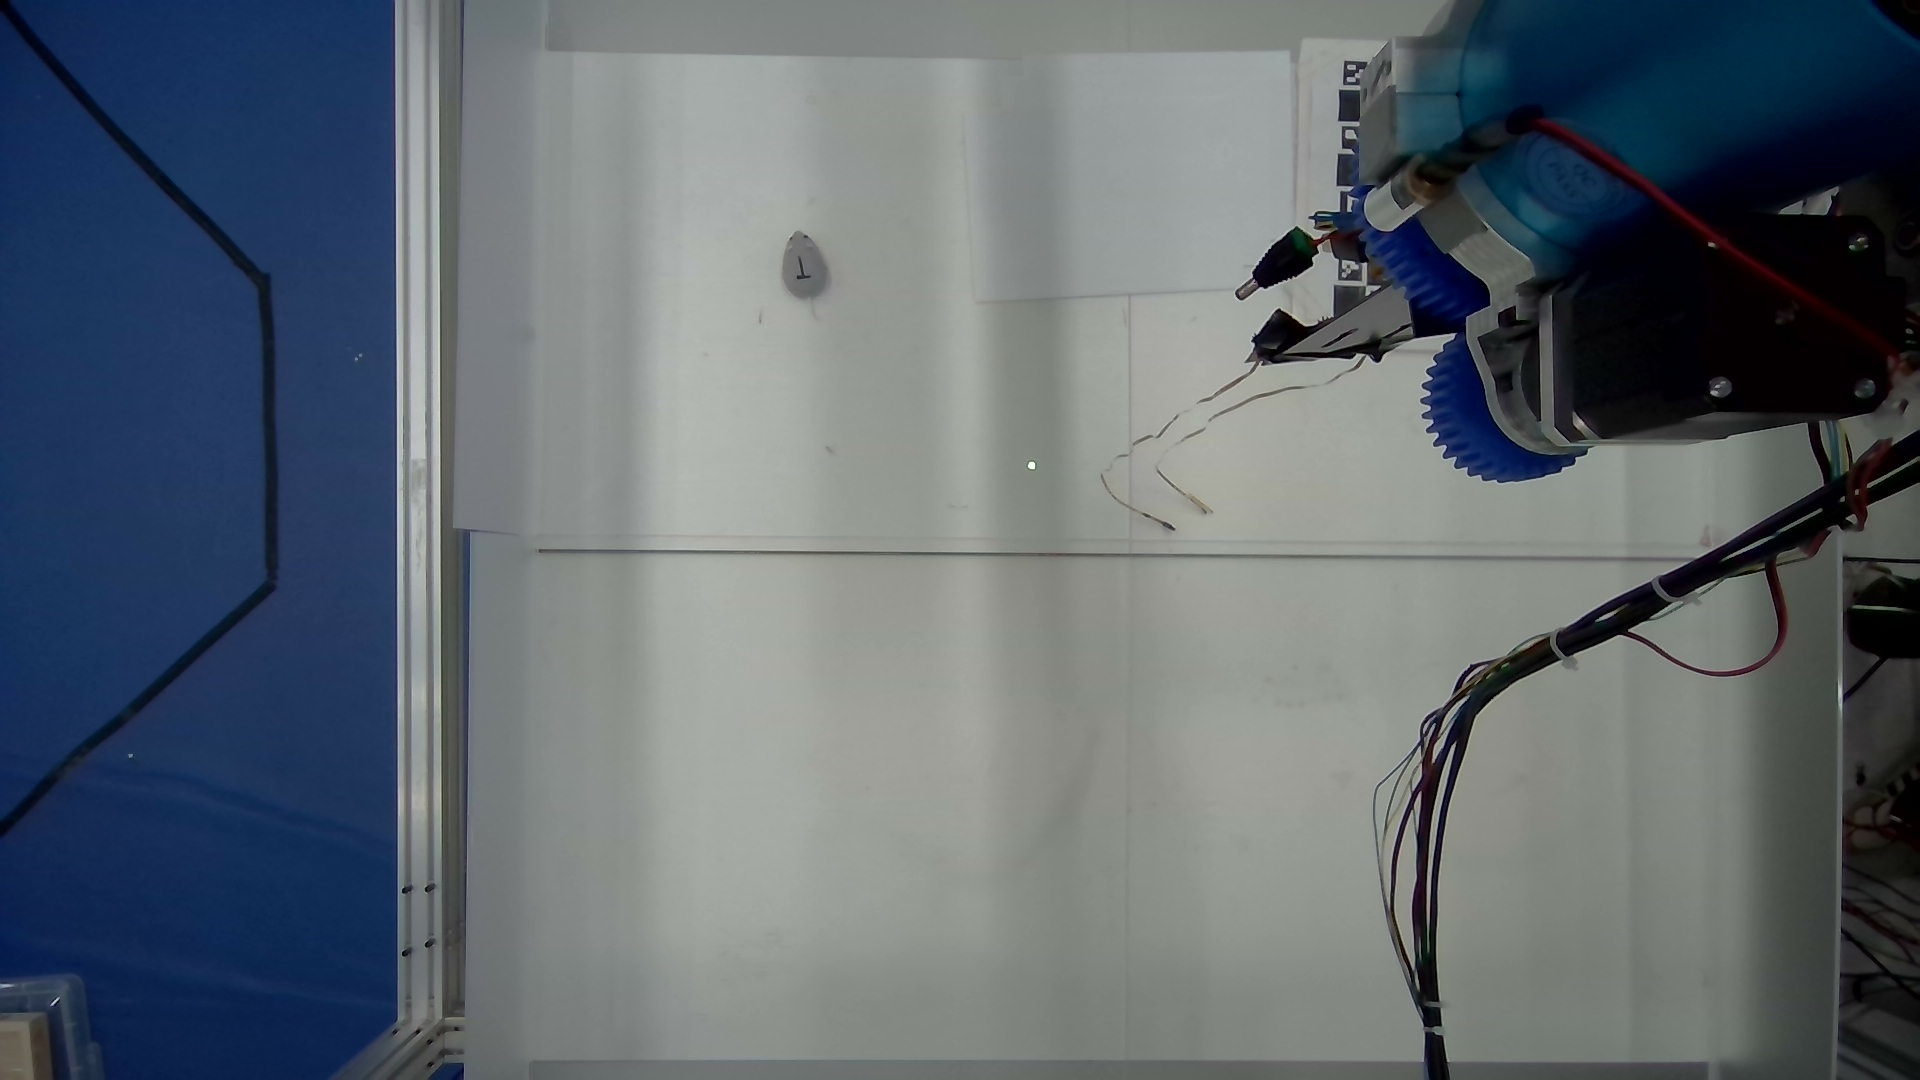
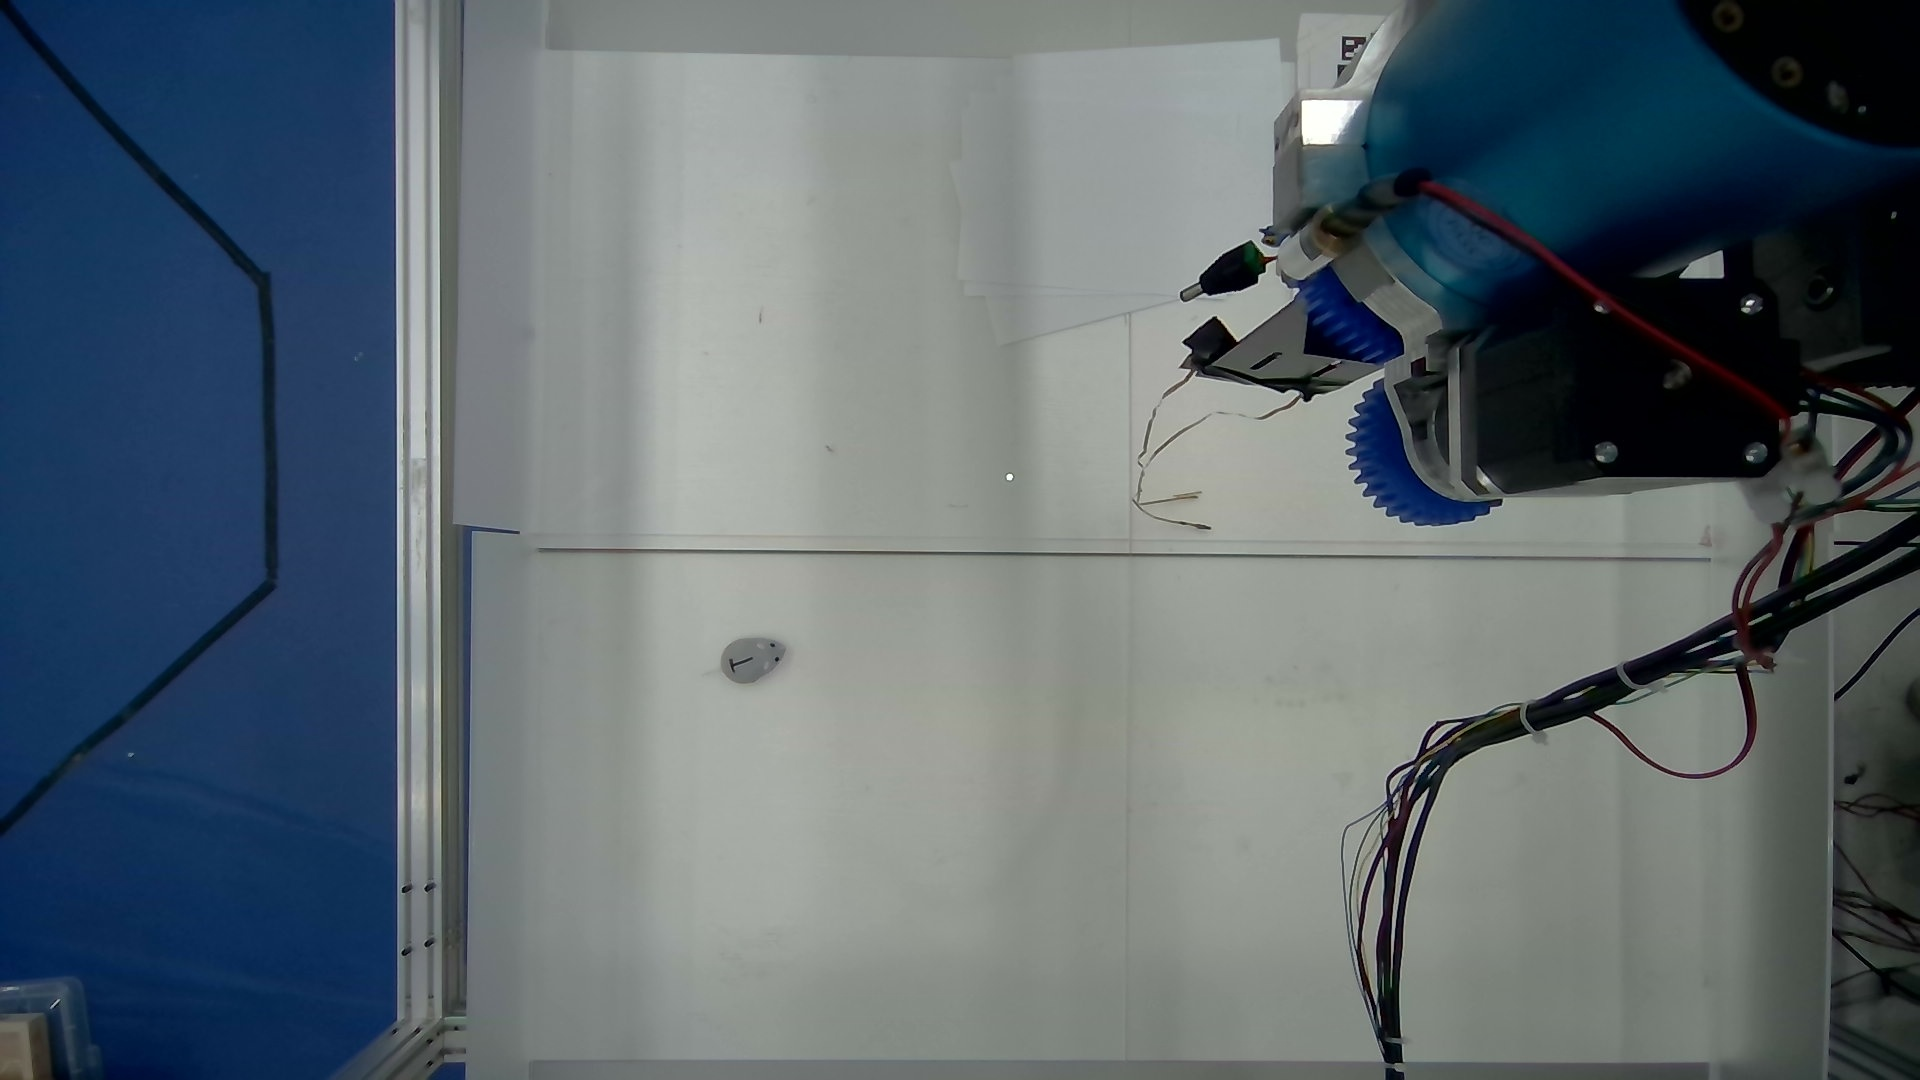
refine xyz move

diff --git a/YQTest/camTest.py b/YQTest/camTest.py
@@ -1,42 +1,47 @@
+# F:\yq\code\Live_Tracking\YQTest\Debug
+
 import cv2
+import os
+import glob
 
-# 初始化一个列表，用于存储摄像头对象
-cameras = []
-index = 0  # 摄像头索引从0开始
+def images_to_video(image_folder, output_path, fps=30):
+    """
+    将图像序列合并为视频。
+    
+    :param image_folder: 包含 JPG 图像的文件夹路径
+    :param output_path: 输出视频路径（例如 output.mp4）
+    :param fps: 视频帧率，默认30
+    """
+    # 获取文件夹中按自然数排列的 JPG 文件
+    # images = sorted(glob.glob(os.path.join(image_folder, "*.jpg")), key=lambda x: int(os.path.splitext(os.path.basename(x))[0]))
+    images = glob.glob(os.path.join(image_folder, "*.jpg"))
 
-# 尝试打开多个摄像头
-while True:
-    cap = cv2.VideoCapture(index)
-    if not cap.isOpened():
-        break
-    cameras.append(cap)
-    index += 1
+    # 确保有图像
+    if not images:
+        print("未找到任何图像文件！")
+        return
 
-# 如果没有检测到摄像头
-if not cameras:
-    print("未检测到任何摄像头！")
-    exit()
+    # 读取第一张图像以确定帧大小
+    first_image = cv2.imread(images[0])
+    height, width, layers = first_image.shape
 
-print(f"检测到 {len(cameras)} 个摄像头。")
+    # 初始化视频写入器
+    fourcc = cv2.VideoWriter_fourcc(*'mp4v')  # 使用 MP4 编码
+    video = cv2.VideoWriter(output_path, fourcc, fps, (width, height))
 
-try:
-    while True:
-        # 读取所有摄像头的帧并显示
-        for i, cap in enumerate(cameras):
-            ret, frame = cap.read()
-            if ret:
-                # 显示每个摄像头的画面
-                cv2.imshow(f'Camera {i}', frame)
+    # 将所有图像写入视频
+    for image_path in images:
+        frame = cv2.imread(image_path)
+        frame = cv2.cvtColor(frame, cv2.COLOR_BGR2RGB)
+        video.write(frame)
 
-        # 按下 'q' 键退出
-        if cv2.waitKey(1) & 0xFF == ord('q'):
-            break
+    # 释放资源
+    video.release()
+    print(f"视频已保存到: {output_path}")
 
-except KeyboardInterrupt:
-    print("程序已中断。")
+# 示例用法
+image_folder = r'F:\yq\code\Live_Tracking\YQTest\Debug'       # JPG 图像所在的文件夹路径
+output_video = 'output.mp4'  # 输出视频路径
+fps = 30                     # 设置帧率（可以根据需要调整）
 
-finally:
-    # 释放所有摄像头资源
-    for cap in cameras:
-        cap.release()
-    cv2.destroyAllWindows()
+images_to_video(image_folder, output_video, fps)

diff --git a/YQTest/PyQtMiceModel_XYZ_1117.py b/YQTest/PyQtMiceModel_XYZ_1117.py
@@ -113,9 +113,9 @@ class MechanicalAxisController:
     def execute_motion(self, xValue, yValue, zValue):
         ############
         ############
-        self.move(axis=1,Value=xValue,speed=7.5)
-        self.move(axis=2,Value=yValue,speed=7.5)
-        self.move(axis=3,Value=zValue,speed=10)
+        self.move(axis=1,Value=xValue,speed=20)
+        self.move(axis=2,Value=yValue,speed=20)
+        self.move(axis=3,Value=zValue,speed=40)
 
         ######
         ######
@@ -214,13 +214,13 @@ class RealTimeDetectionApp(QMainWindow):
 
         # self.moveDll = Move()
         # self.poseinit = [827, 314]
-        DetectFlag = True
+        DetectFlag = False
         if DetectFlag:
             
             self.DetectPoint()
         else:
-            self.poseinit = [663,  648]
-            self.poseinit2 = [1022,  671]
+            self.poseinit = [647,  459]
+            self.poseinit2 = [1008,  476]
         self.frameCount = 0
         #### camera index
 
@@ -264,16 +264,18 @@ class RealTimeDetectionApp(QMainWindow):
     def DetectPoint(self):
         from TemplateMatch import match_template_rgb
         # 示例用法
-        template_path = 'Template.jpg'  # 替换为模板图像路径
+        template1_path = 'Template2.jpg'  # 替换为模板图像路径
+        template2_path = 'Template1.jpg'  # 替换为模板图像路径
         image1_path = 'frame2.jpg'        # 替换为目标图像路径
         image2_path = 'frame1.jpg'        # 替换为目标图像路径
-        template = cv2.imread(template_path)
+        template1 = cv2.imread(template1_path)
+        template2 = cv2.imread(template2_path)
         image1 = cv2.imread(image1_path)
         image2 = cv2.imread(image2_path)
-        roi_range1, center1 = match_template_rgb(template, image1)
+        roi_range1, center1 = match_template_rgb(template1, image1)
         print(f"roi_range1 ROI范围: {roi_range1}")
         print(f"center1 中心点: {center1}")
-        roi_range2, center2 = match_template_rgb(template, image2)
+        roi_range2, center2 = match_template_rgb(template2, image2)
         print(f"roi_range2 ROI范围: {roi_range2}")
         print(f"center2 中心点: {center2}")
         self.poseinit = center1
